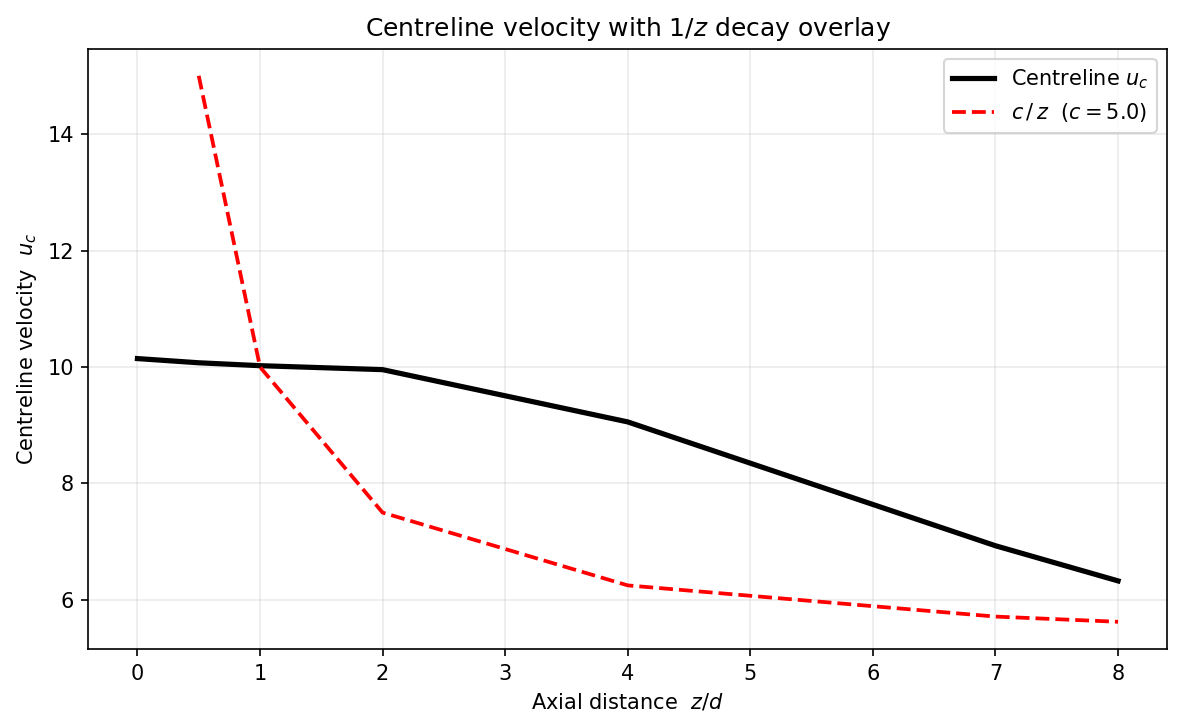
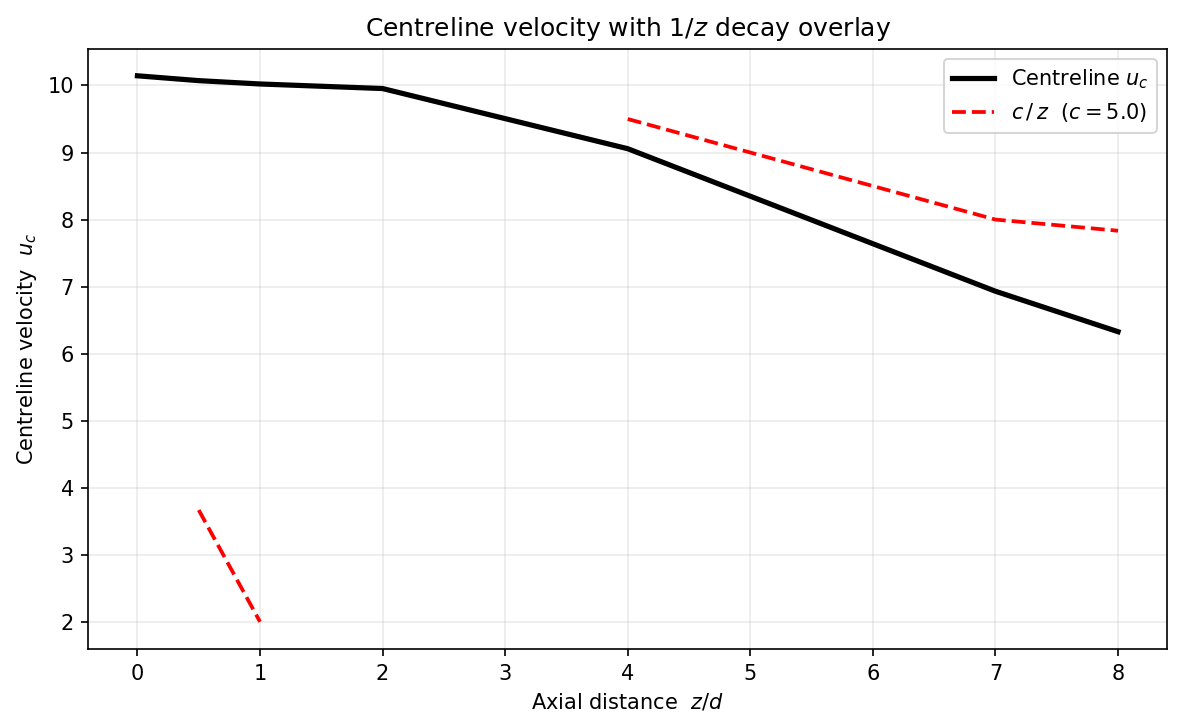
new stuff

diff --git a/centerline_velo&ave_nozz_velo.py b/centerline_velo&ave_nozz_velo.py
@@ -1,0 +1,86 @@
+import numpy as np
+import matplotlib.pyplot as plt
+from scipy.optimize import curve_fit
+from pointcloud import PointCloud
+
+# --- Load data ---
+cloud = PointCloud()
+cloud.read_test_data()
+
+# --- Collect velocities at each axial station ---
+stations = {}
+
+for station_list in cloud.points:
+    if not station_list:
+        continue
+    z = float(station_list[0].axial)
+    radials, vmeans = [], []
+    for p in station_list:
+        radials.append(float(p.radial))
+        if hasattr(p, "velocity_mean"):
+            vmeans.append(float(p.velocity_mean))
+        else:
+            vmeans.append(float(np.mean(p.voltage_data)))
+
+    order = np.argsort(radials)
+    stations[z] = (np.array(radials)[order], np.array(vmeans)[order])
+
+# --- Extract centreline velocity at each station ---
+z_vals = sorted(stations.keys())
+uc_vals = [float(np.interp(0.0, *stations[z])) for z in z_vals]
+
+z_arr  = np.array(z_vals)
+uc_arr = np.array(uc_vals)
+
+# --- Fit 1/x curve to stations from z=4 onwards ---
+#     Model:  u_c(z) = a / (z - z0) + c
+#     z0 allows a virtual origin offset, c allows a baseline offset
+
+mask = z_arr >= 4
+z_fit  = z_arr[mask]
+uc_fit = uc_arr[mask]
+
+def inv_model(z, a, z0, c):
+    return a / (z - z0) + c
+
+# Initial guesses: a~5, z0~-100 (virtual origin), c~0
+p0 = [5.0, -100.0, 0.0]
+popt, pcov = curve_fit(inv_model, z_fit, uc_fit, p0=p0)
+a_fit, z0_fit, c_fit = popt
+
+print(f"Best fit:  a = {a_fit:.4f},  z0 = {z0_fit:.4f},  c = {c_fit:.4f}")
+print(f"Model:  u_c = {a_fit:.4f} / (z - ({z0_fit:.4f})) + {c_fit:.4f}")
+
+# --- Dense curve for smooth overlay ---
+z_smooth = np.linspace(z_fit[0], 12, 300)
+uc_smooth = inv_model(z_smooth, *popt)
+
+# --- Plot ---
+fig, ax = plt.subplots(figsize=(8, 5))
+
+ax.plot(z_arr, uc_arr, "k-o", lw=2, markersize=5, label="Centreline $u_c$")
+ax.plot(z_smooth, uc_smooth, "r--", lw=2,
+        label=f"Fit: $\\frac{{{a_fit:.2f}}}{{z - ({z0_fit:.2f})}} + {c_fit:.2f}$")
+
+# Mark the fitted region
+ax.axvline(4, color="grey", ls=":", lw=1, alpha=0.7, label="Fit start (z=4)")
+
+ax.set_xlim(left=z_arr[0], right=12)
+ax.set_ylim(bottom=0)
+ax.set_xlabel("Axial distance  $z/d$")
+ax.set_ylabel("Centreline velocity  $u_c$")
+ax.set_title("Centreline velocity with $1/z$ best-fit overlay")
+ax.legend()
+ax.grid(True, alpha=0.25)
+
+fig.tight_layout()
+plt.show()
+
+# --- Nozzle exit velocity: average of values within 97% of max at station 0 ---
+z0_station = z_vals[0]
+r0, v0 = stations[z0_station]
+v_max_0 = np.max(v0)
+core_vals_0 = v0[v0 >= 0.97 * v_max_0]
+u_exit = np.mean(core_vals_0)
+
+print(f"Nozzle exit velocity (station z={z0_station}): {u_exit:.4f}")

diff --git a/velocity_ray.py b/velocity_ray.py
@@ -558,7 +558,7 @@ def plot_ray_analysis(
 
     # Only plot the overlay where z != 0 to avoid division by zero
     z_nonzero = z_arr[z_arr != 0]
-    overlay = (1.0 / z_nonzero) * c_overlay + 5
+    overlay = (1.0 / (z_nonzero-2)) * c_overlay + 7
     ax_uc.plot(z_nonzero, overlay, "r--", lw=1.8,
             label=f"$c \\,/\\, z$  ($c = {c_overlay}$)")
 